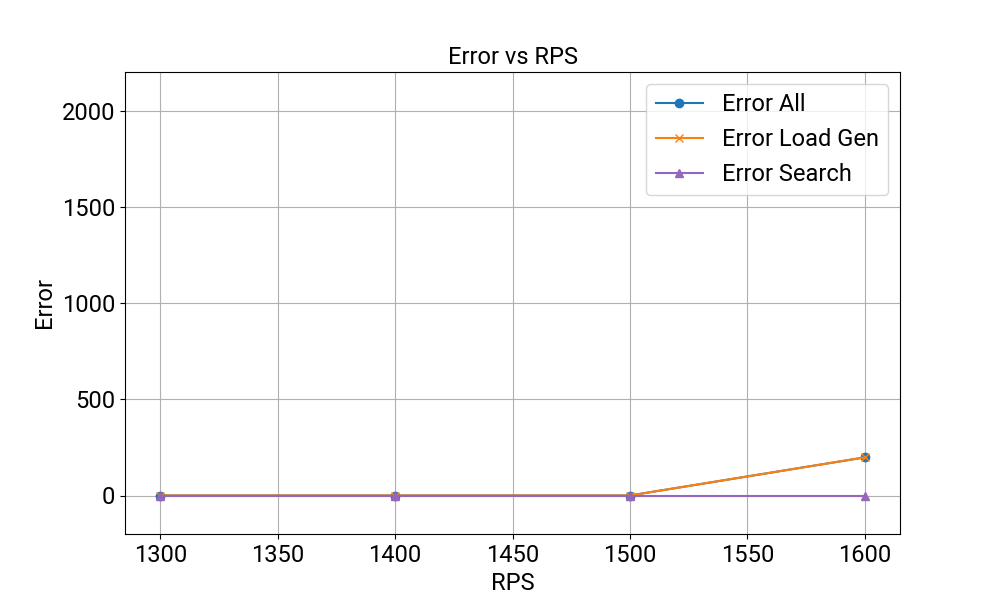
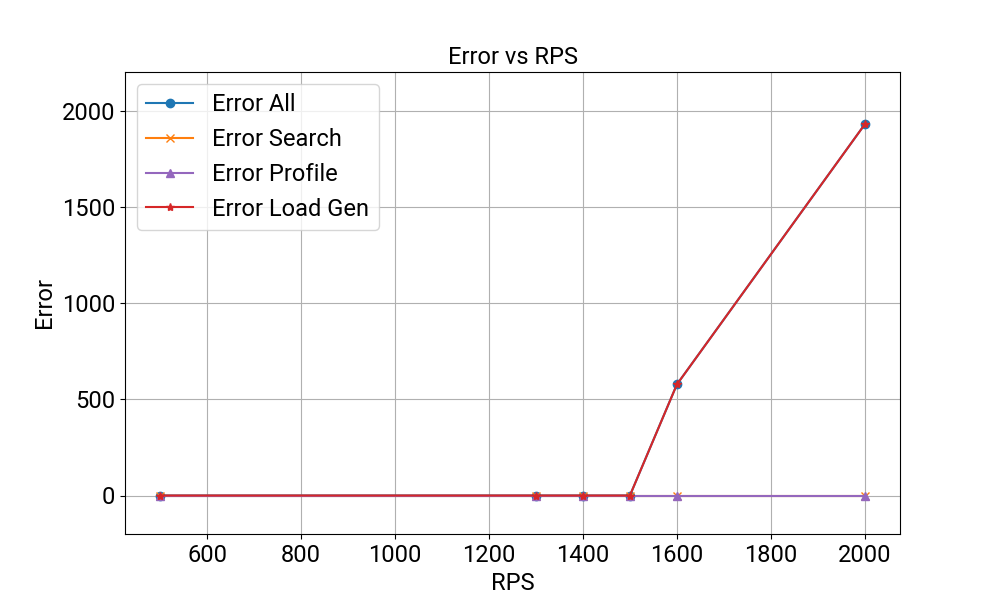
test: Add back profile

diff --git a/reboot-hotel/snippets/prio_global/plot_core.py b/reboot-hotel/snippets/prio_global/plot_core.py
@@ -19,6 +19,7 @@ plt.rcParams.update(
 
 GRAPH_IDS = ["Hotel"]
 COLORS = ["tab:blue", "tab:orange", "tab:purple", "tab:red"]
+MARKERS = ["o", "x", "^", "*"]
 
 
 def plot_cdf(results: List[Tuple[str, List[int]]], title: str, fig_name: str):
@@ -122,14 +123,14 @@ def plot_goodput(results: List[Dict[str, Any]], fig_name: str):
         goodputs_load_gen,
         label="Goodput Load Gen",
         color=COLORS[0],
-        marker="o",
+        marker=MARKERS[0],
     )
     plt.plot(
         rps_values,
         goodputs_fe,
         label="Goodput FE",
         color=COLORS[1],
-        marker="x",
+        marker=MARKERS[1],
     )
 
     plt.xlabel("RPS")
@@ -156,28 +157,28 @@ def plot_throughput(results: List[Dict[str, Any]], fig_name: str):
         tput_all,
         label="Throughput All",
         color=COLORS[0],
-        marker="o",
+        marker=MARKERS[0],
     )
     plt.plot(
         rps_values,
         tput_good,
         label="Throughput Good",
         color=COLORS[1],
-        marker="x",
+        marker=MARKERS[1],
     )
     plt.plot(
         rps_values,
         tput_neutral,
         label="Throughput Neutral",
         color=COLORS[2],
-        marker="^",
+        marker=MARKERS[2],
     )
     plt.plot(
         rps_values,
         tput_error,
         label="Throughput Error",
         color=COLORS[3],
-        marker=".",
+        marker=MARKERS[3],
     )
 
     plt.xlabel("RPS")
@@ -193,8 +194,9 @@ def plot_throughput(results: List[Dict[str, Any]], fig_name: str):
 def plot_error(results: List[Dict[str, Any]], fig_name: str):
     rps_values = [result["rps"] for result in results]
     error_all = [result["error_all"] for result in results]
-    error_load_gen = [result["error_load_gen"] for result in results]
     error_search = [result["error_search"] for result in results]
+    error_profile = [result["error_profile"] for result in results]
+    error_load_gen = [result["error_load_gen"] for result in results]
 
     fig = plt.figure(figsize=(10, 6))
 
@@ -203,21 +205,28 @@ def plot_error(results: List[Dict[str, Any]], fig_name: str):
         error_all,
         label="Error All",
         color=COLORS[0],
-        marker="o",
-    )
-    plt.plot(
-        rps_values,
-        error_load_gen,
-        label="Error Load Gen",
-        color=COLORS[1],
-        marker="x",
+        marker=MARKERS[0],
     )
     plt.plot(
         rps_values,
         error_search,
         label="Error Search",
+        color=COLORS[1],
+        marker=MARKERS[1],
+    )
+    plt.plot(
+        rps_values,
+        error_profile,
+        label="Error Profile",
         color=COLORS[2],
-        marker="^",
+        marker=MARKERS[2],
+    )
+    plt.plot(
+        rps_values,
+        error_load_gen,
+        label="Error Load Gen",
+        color=COLORS[3],
+        marker=MARKERS[3],
     )
 
     plt.xlabel("RPS")

diff --git a/reboot-hotel/snippets/prio_global_two/plot_core.py b/reboot-hotel/snippets/prio_global_two/plot_core.py
@@ -19,6 +19,7 @@ plt.rcParams.update(
 
 GRAPH_IDS = ["Hotel"]
 COLORS = ["tab:blue", "tab:orange", "tab:purple", "tab:red"]
+MARKERS = ["o", "x", "^", "*"]
 
 
 def plot_cdf(results: List[Tuple[str, List[int]]], title: str, fig_name: str):
@@ -122,14 +123,14 @@ def plot_goodput(results: List[Dict[str, Any]], fig_name: str):
         goodputs_load_gen,
         label="Goodput Load Gen",
         color=COLORS[0],
-        marker="o",
+        marker=MARKERS[0],
     )
     plt.plot(
         rps_values,
         goodputs_fe,
         label="Goodput FE",
         color=COLORS[1],
-        marker="x",
+        marker=MARKERS[1],
     )
 
     plt.xlabel("RPS")
@@ -156,28 +157,28 @@ def plot_throughput(results: List[Dict[str, Any]], fig_name: str):
         tput_all,
         label="Throughput All",
         color=COLORS[0],
-        marker="o",
+        marker=MARKERS[0],
     )
     plt.plot(
         rps_values,
         tput_good,
         label="Throughput Good",
         color=COLORS[1],
-        marker="x",
+        marker=MARKERS[1],
     )
     plt.plot(
         rps_values,
         tput_neutral,
         label="Throughput Neutral",
         color=COLORS[2],
-        marker="^",
+        marker=MARKERS[2],
     )
     plt.plot(
         rps_values,
         tput_error,
         label="Throughput Error",
         color=COLORS[3],
-        marker=".",
+        marker=MARKERS[3],
     )
 
     plt.xlabel("RPS")
@@ -193,8 +194,9 @@ def plot_throughput(results: List[Dict[str, Any]], fig_name: str):
 def plot_error(results: List[Dict[str, Any]], fig_name: str):
     rps_values = [result["rps"] for result in results]
     error_all = [result["error_all"] for result in results]
-    error_load_gen = [result["error_load_gen"] for result in results]
     error_search = [result["error_search"] for result in results]
+    error_profile = [result["error_profile"] for result in results]
+    error_load_gen = [result["error_load_gen"] for result in results]
 
     fig = plt.figure(figsize=(10, 6))
 
@@ -203,21 +205,28 @@ def plot_error(results: List[Dict[str, Any]], fig_name: str):
         error_all,
         label="Error All",
         color=COLORS[0],
-        marker="o",
-    )
-    plt.plot(
-        rps_values,
-        error_load_gen,
-        label="Error Load Gen",
-        color=COLORS[1],
-        marker="x",
+        marker=MARKERS[0],
     )
     plt.plot(
         rps_values,
         error_search,
         label="Error Search",
+        color=COLORS[1],
+        marker=MARKERS[1],
+    )
+    plt.plot(
+        rps_values,
+        error_profile,
+        label="Error Profile",
         color=COLORS[2],
-        marker="^",
+        marker=MARKERS[2],
+    )
+    plt.plot(
+        rps_values,
+        error_load_gen,
+        label="Error Load Gen",
+        color=COLORS[3],
+        marker=MARKERS[3],
     )
 
     plt.xlabel("RPS")

diff --git a/reboot-hotel/src/hotel/frontend/server.rs b/reboot-hotel/src/hotel/frontend/server.rs
@@ -58,19 +58,19 @@ impl Frontend for FrontendImpl {
         // reserve_client.check_availability()
         // ReserveRequest { customer, hotel_ids, in_date, out_date, room_number }
 
-        // let mut profile_client = self.profile_client.clone();
-        // let profile_request = profile::ProfileRequest {
-        //     hotels: response.hotels,
-        // };
-        // let profile_response = profile_client.handle_get_profiles(profile_request).await?;
-        // let response = profile_response.into_inner();
+        let mut profile_client = self.profile_client.clone();
+        let profile_request = profile::ProfileRequest {
+            hotels: response.hotels,
+        };
+        let profile_response = profile_client.handle_get_profiles(profile_request).await?;
+        let response = profile_response.into_inner();
 
         let mut hotels = Vec::new();
-        // for profile in response.profiles {
-        //     hotels.push(frontend::Hotel {
-        //         name: profile.hotel,
-        //     });
-        // }
+        for profile in response.profiles {
+            hotels.push(frontend::Hotel {
+                name: profile.hotel,
+            });
+        }
 
         let response = frontend::SearchResponse { hotels };
 

diff --git a/reboot-hotel/snippets/prio_global/plot_error.py b/reboot-hotel/snippets/prio_global/plot_error.py
@@ -33,6 +33,12 @@ for r in range(cfg["Repeats"]):
             ]
             result["error_search"] = round(len(df_filtered) / cfg["DurationSecs"])
 
+            df_filtered = df[
+                (df["graph_id"] == graph_id)
+                & (df["error"] == "/profile.Profile/HandleGetProfiles")
+            ]
+            result["error_profile"] = round(len(df_filtered) / cfg["DurationSecs"])
+
             rps_to_results.append(result)
 
     plot_error(rps_to_results, f"fig_error_rps_{r}.png")

diff --git a/reboot-hotel/snippets/prio_global_two/plot_error.py b/reboot-hotel/snippets/prio_global_two/plot_error.py
@@ -33,6 +33,12 @@ for r in range(cfg["Repeats"]):
             ]
             result["error_search"] = round(len(df_filtered) / cfg["DurationSecs"])
 
+            df_filtered = df[
+                (df["graph_id"] == graph_id)
+                & (df["error"] == "/profile.Profile/HandleGetProfiles")
+            ]
+            result["error_profile"] = round(len(df_filtered) / cfg["DurationSecs"])
+
             rps_to_results.append(result)
 
     plot_error(rps_to_results, f"fig_error_rps_{r}.png")
